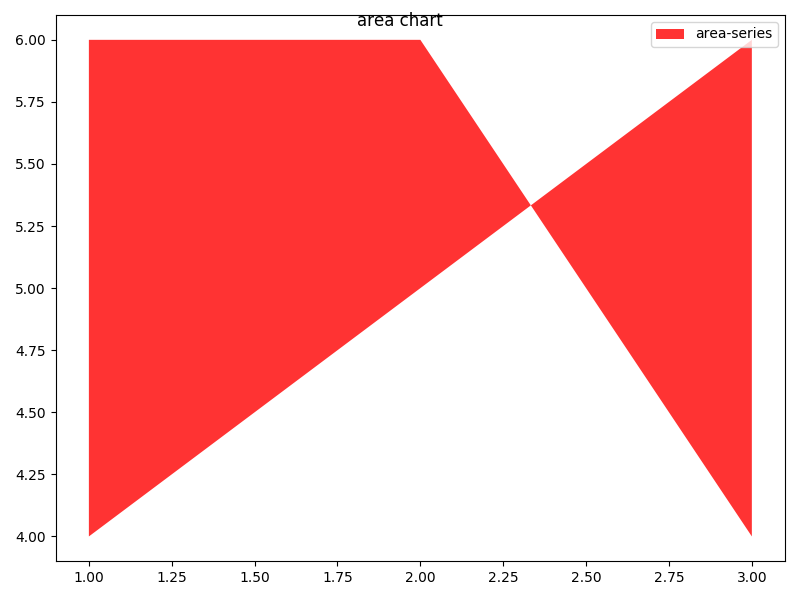
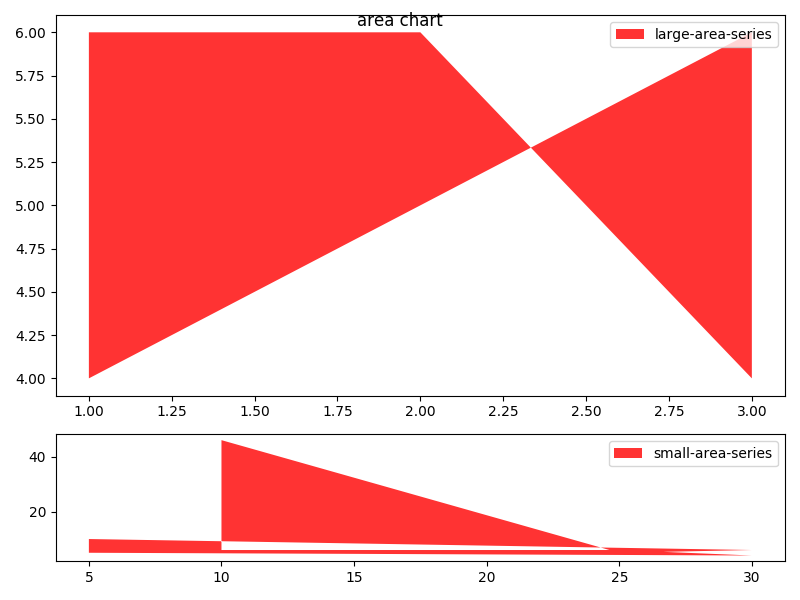
Fix width height ratios

diff --git a/vitro.cc b/vitro.cc
@@ -14,6 +14,8 @@ void* _import_numpy() {
   return nullptr;
 }
 
+PyObject* new_none() { Py_RETURN_NONE; }
+
 void make_sure_initialized() {
   static std::atomic<bool> should_be_initialized(true);
   if (should_be_initialized.exchange(false, std::memory_order_seq_cst)) {
@@ -156,7 +158,7 @@ Matplot::Matplot(const Figure& fig) {
 
   // default dpi = 100 = pixels per inch
   // width (px) => width/dpi (inches)
-  pyfig = PyObject_CallMethod(pyplot, "figure", "O(dd)", Py_None, fig.width / 100.0, fig.height / 100.0);
+  pyfig = PyObject_CallMethod(pyplot, "figure", "O(dd)", new_none(), fig.width / 100.0, fig.height / 100.0);
   // pyfig = PyObject_CallMethod(pyplot, "figure", nullptr);
   if (pyfig == nullptr) {
     throw std::runtime_error("matplotlib.pyplot.figure() failed");
@@ -166,7 +168,32 @@ Matplot::Matplot(const Figure& fig) {
     PyObject_CallMethod(pyfig, "suptitle", "s", fig.title.c_str());
   }
 
-  PyObject* result = PyObject_CallMethod(pyfig, "subplots", "iiOOO", fig.nrow, fig.ncol, Py_False, Py_False, Py_False);
+  // gridspec_kw
+  PyObject* gridspec_kw = nullptr;
+  if (fig.width_ratios || fig.height_ratios) {
+    gridspec_kw = PyDict_New();
+    if (fig.width_ratios) {
+      auto list = PyList_New(fig.width_ratios->size());
+      Py_ssize_t idx = 0;
+      for (auto& ratio : *fig.width_ratios) {
+        PyList_SetItem(list, idx++, PyFloat_FromDouble(ratio));
+      }
+      PyDict_SetItemString(gridspec_kw, "width_ratios", list);
+    }
+    if (fig.height_ratios) {
+      auto list = PyList_New(fig.height_ratios->size());
+      Py_ssize_t idx = 0;
+      for (auto& ratio : *fig.height_ratios) {
+        PyList_SetItem(list, idx++, PyFloat_FromDouble(ratio));
+      }
+      PyDict_SetItemString(gridspec_kw, "height_ratios", list);
+    }
+    Py_IncRef(gridspec_kw);
+  }
+
+  // r,c,sharex,sharey,squeeze,subplot_kw,gridspec_kw
+  PyObject* result = PyObject_CallMethod(pyfig, "subplots", "iiOOOOO", fig.nrow, fig.ncol, Py_False, Py_False, Py_False,
+                                         Py_None, (gridspec_kw == nullptr) ? new_none() : gridspec_kw);
   if (result == nullptr) {
     throw std::runtime_error("Figure.subplots() failed");
   }
@@ -235,9 +262,13 @@ Matplot::Matplot(const Figure& fig) {
 
         auto plot = PyObject_GetAttrString(pyax, "scatter");
         auto args = Py_BuildValue("(OO)", x, y);
-        auto kwargs = Py_BuildValue("{s:s, s:d, s:s, s:d, s:O}", "label", scatter.name.c_str(), "alpha", scatter.alpha,
-                                    "marker", scatter.marker_type.c_str(), "linewidths", scatter.width, "color",
-                                    scatter.color ? PyUnicode_FromString(scatter.color->c_str()) : Py_None);
+        auto color_str = scatter.color ? PyUnicode_FromString(scatter.color->c_str()) : Py_None;
+        auto kwargs =
+            Py_BuildValue("{s:s, s:d, s:s, s:d, s:O}", "label", scatter.name.c_str(), "alpha", scatter.alpha, "marker",
+                          scatter.marker_type.c_str(), "linewidths", scatter.width, "color", color_str);
+        if (color_str != Py_None) {
+          Py_DecRef(color_str);
+        }
         auto pyscatter = PyObject_Call(plot, args, kwargs);
         if (pyscatter == nullptr) {
           throw std::runtime_error("cannot draw a scatter");
@@ -299,12 +330,16 @@ Matplot::Matplot(const Figure& fig) {
         if (pytext == nullptr) {
           throw std::runtime_error("cannot draw a text");
         }
+        Py_DecRef(transform);
+        Py_DecRef(props);
         Py_DecRef(args);
         Py_DecRef(kwargs);
         Py_DecRef(plot);
         Py_DecRef(pytext);
       }
-      PyObject_CallMethod(pyax, "legend", nullptr);
+      if (ax.lines.size() + ax.scatters.size() + ax.areas.size() > 0) {
+        PyObject_CallMethod(pyax, "legend", nullptr);
+      }
       Py_DecRef(pyax);
     }
   }

diff --git a/example.cc b/example.cc
@@ -45,11 +45,17 @@ void plot2() {
 }
 
 void plot3() {
-  Figure fig;
+  Figure fig(2, 1);
   fig.title = "area chart";
-  auto& ax = fig.axes(1, 1);
-
-  ax.area("area-series", {1, 2, 3}, {4, 5, 6}, {6, 6, 4});
+  fig.height_ratios = {3, 1};
+  {
+    auto& ax = fig.axes(1, 1);
+    ax.area("large-area-series", {1, 2, 3}, {4, 5, 6}, {6, 6, 4});
+  }
+  {
+    auto& ax = fig.axes(2, 1);
+    ax.area("small-area-series", {10, 25, 30, 5}, {46, 5, 6, 10}, {6, 6, 4, 5});
+  }
 
   Matplot matplot(fig);
   matplot.save("plot3.png");

diff --git a/vitro.h b/vitro.h
@@ -146,6 +146,8 @@ public:
   double width = 800;
   double height = 600;
   std::string title;
+  std::optional<std::vector<double>> width_ratios;
+  std::optional<std::vector<double>> height_ratios;
 
 private:
   std::vector<Axes> axes_;
